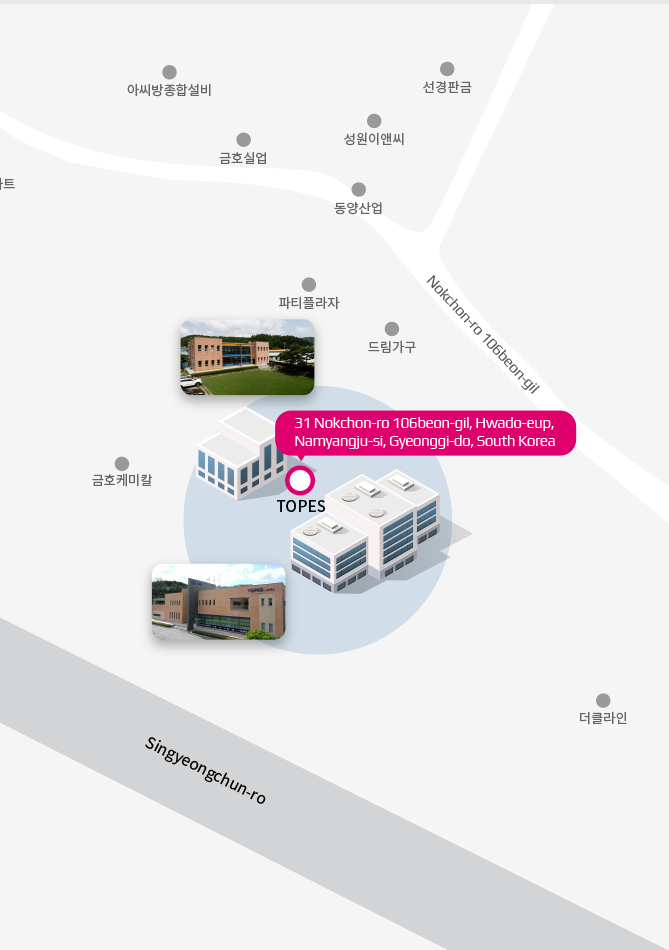
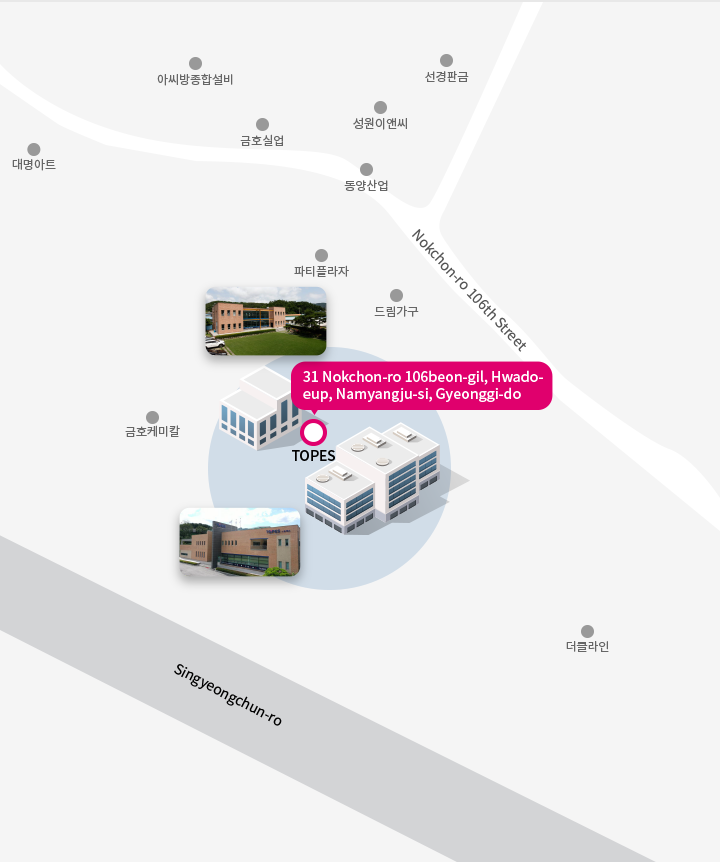
영문 오시는길 지도 이미지 교체 완료 - 08.05

diff --git a/html/en/EN-02-01-0001.html b/html/en/EN-02-01-0001.html
@@ -102,7 +102,8 @@
                             <!-- TAB 01 -->
                             <div class="tab_contents tab_content01 on" data-aos="fade-up">
                                 <div class="map">
-                                    <img src="../images/_en/map_company_en.png" alt="main company image">
+                                    <img src="../images/_en/map_company_en.png" alt="main company image" class="img_pc">
+                                    <img src="../images/_en/map_company_en_m.png" alt="Headquarters Image" class="img_m">
                                 </div>
 
                                 <div class="locate">
@@ -148,7 +149,8 @@
                             <!-- TAB 02 -->
                             <div class="tab_contents tab_content02" data-aos="fade-up">
                                 <div class="map">
-                                    <img src="../images/_en/map_factory_en.png" alt="Factory image">
+                                    <img src="../images/_en/map_factory_en.png" alt="Factory image" class="img_pc">
+                                    <img src="../images/_en/map_factory_en_m.png" alt="Headquarters Image" class="img_m">
                                 </div>
 
                                 <div class="locate">
